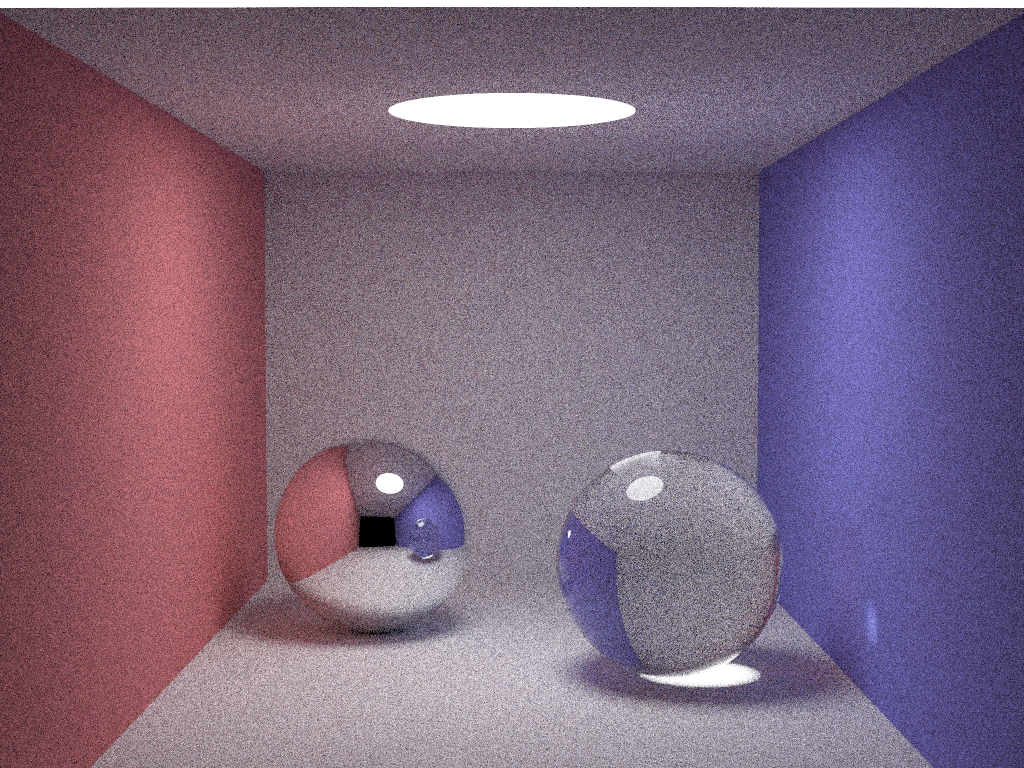
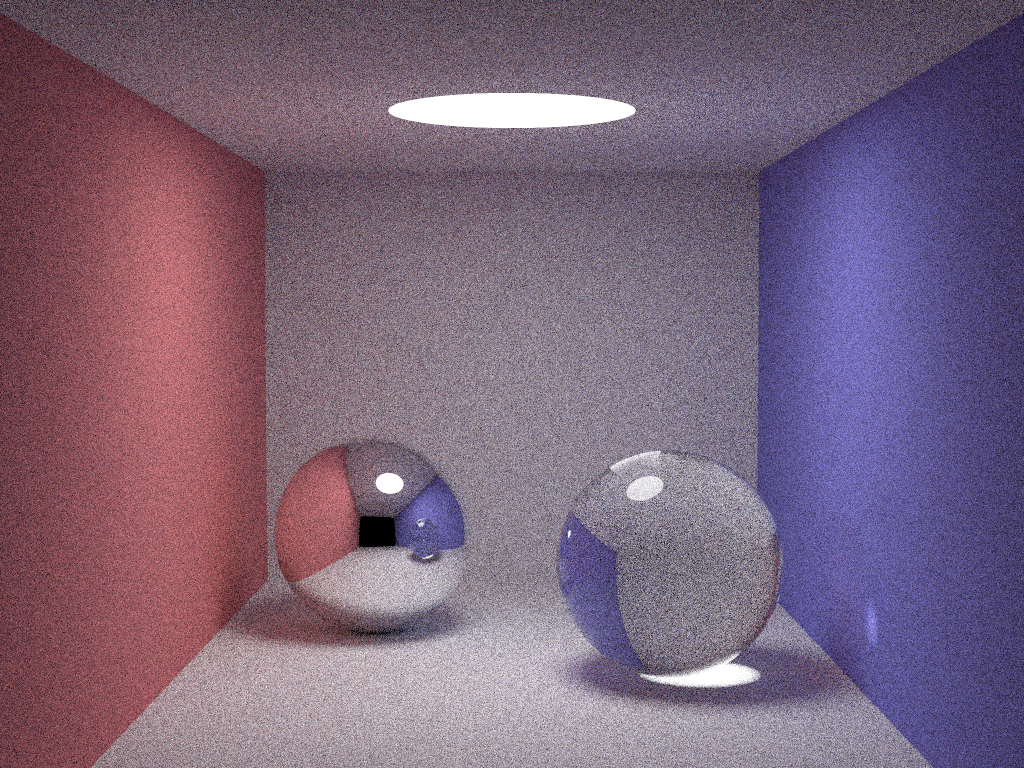
fix bug in ray generation

Changed region(s): [[0.0, 0.0, 1.0, 0.0312], [0.6875, 0.8125, 0.75, 0.8438], [0.375, 0.8125, 0.4062, 0.8438]]

diff --git a/Program.cs b/Program.cs
@@ -18,11 +18,11 @@ public static class Program
 
     private readonly struct Sphere(float radius, in Vector3 center, in Vector3 emission, in Vector3 color, Material material)
     {
-        public Vector3 Center { get; } = center;
-        public float Radius { get; } = radius;
-        public Vector3 Emission { get; } = emission;
-        public Material Material { get; } = material;
-        public Vector3 Color { get; } = color;
+        public readonly Vector3 Center = center;
+        public readonly float Radius = radius;
+        public readonly Vector3 Emission = emission;
+        public readonly Material Material = material;
+        public readonly Vector3 Color = color;
 
         public float Intersect(in Ray ray)
         {
@@ -123,7 +123,7 @@ public static class Program
                 case Material.Reflective:
                 {
                     ray.Origin = x + eps * nl;
-                    ray.Direction -= n * 2f * Vector3.Dot(n, ray.Direction);
+                    ray.Direction = ray.Direction - n * 2f * Vector3.Dot(n, ray.Direction);
                     break;
                 }
                 case Material.Refractive:
@@ -163,7 +163,6 @@ public static class Program
                         ray.Direction = tDir;
                         f *= tr / (1f - rrThreshold);
                     }
-
                     break;
                 }
             }
@@ -179,11 +178,30 @@ public static class Program
         const int w = 1024, h = 768;
         var samples = args.Length > 0 ? int.Parse(args[0]) : 64;
         var c = new Vector3[w * h];
-        Action<int, Random> renderRow = (y, rng) =>
+        var cam = new Ray(new Vector3(50f, 52f, 295.6f), Vector3.Normalize(new Vector3(0f, -0.042612f, -1f)));
+        var cx = new Vector3(w * 0.5135f / h, 0f, 0f);
+        var cy = Vector3.Normalize(Vector3.Cross(cx, cam.Direction)) * 0.5135f;
+
+        var sw = Stopwatch.StartNew();
+        Parallel.For(0, h, y =>
         {
-            var cam = new Ray(new Vector3(50f, 52f, 295.6f), Vector3.Normalize(new Vector3(0f, -0.042612f, -1f)));
-            var cx = new Vector3(w * 0.5135f / h, 0f, 0f);
-            var cy = Vector3.Normalize(Vector3.Cross(cx, cam.Direction)) * 0.5135f;
+            var rng = new ThreadLocal<Random>(() => new Random(y));
+            Debug.Assert(rng.Value != null, "rng.Value != null");
+            RenderRow(y, rng.Value);
+        });
+        sw.Stop();
+        Console.WriteLine($"Elapsed time: {sw.Elapsed}");
+        using var f = File.CreateText("image.ppm");
+        f.Write($"P3\n{w} {h}\n255\n");
+        foreach (var pixel in c)
+        {
+            f.Write($"{ToInt(pixel.X)} {ToInt(pixel.Y)} {ToInt(pixel.Z)} ");
+        }
+
+        return;
+
+        void RenderRow(int y, Random rng)
+        {
             for (var x = 0; x < w; ++x)
             {
                 for (var sy = 0; sy < 2; ++sy)
@@ -197,30 +215,15 @@ public static class Program
                             var dx = r1 < 1f ? MathF.Sqrt(r1) - 1f : 1f - MathF.Sqrt(2f - r1);
                             var r2 = 2f * rng.NextSingle();
                             var dy = r2 < 1f ? MathF.Sqrt(r2) - 1f : 1f - MathF.Sqrt(2f - r2);
-                            var d = cx * (((sx + 0.5f + dx) / 2f + x) / w - 0.5f) +
-                                    cy * (((sy + 0.5f + dy) / 2f + y) / h - 0.5f) + cam.Direction;
-                            r += Radiance(new Ray(cam.Origin + d * 140f, Vector3.Normalize(d)), rng) * (1f / samples);
+                            var d = cam.Direction + cx * (((sx + 0.5f + dx) / 2f + x) / w - 0.5f) + cy * (((sy + 0.5f + dy) / 2f + y) / h - 0.5f);
+                            d = Vector3.Normalize(d);
+                            r += Radiance(new Ray(cam.Origin + 140f * d, d), rng) * (1f / samples);
                         }
 
                         c[x + (h - 1 - y) * w] += 0.25f * Vector3.Clamp(r, Vector3.Zero, Vector3.One);
                     }
                 }
             }
-        };
-        var sw = Stopwatch.StartNew();
-        Parallel.For(0, h, y =>
-        {
-            var rng = new ThreadLocal<Random>(() => new Random(y));
-            Debug.Assert(rng.Value != null, "rng.Value != null");
-            renderRow(y, rng.Value);
-        });
-        sw.Stop();
-        Console.WriteLine($"Elapsed time: {sw.Elapsed}");
-        using var f = File.CreateText("image.ppm");
-        f.Write($"P3\n{w} {h}\n255\n");
-        for (var i = 0; i < c.Length; ++i)
-        {
-            f.Write($"{ToInt(c[i].X)} {ToInt(c[i].Y)} {ToInt(c[i].Z)} ");
         }
     }
 }
